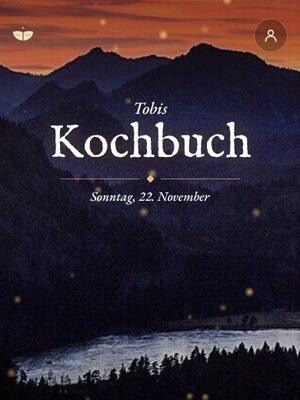
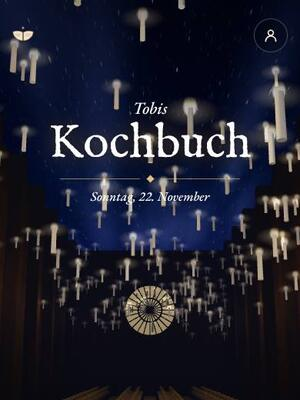
Zauberschule: 3D-Kopf – Halle mit Sternendecke und schwebenden Kerzen statt Stimmungsfoto
Claude-Session: https://claude.ai/code/session_013PTjiN2vxWXEUNgaQEpBeg

diff --git a/assets/skins/zauberschule-3d.js b/assets/skins/zauberschule-3d.js
@@ -1,0 +1,120 @@
+// Zauberschule – 3D-Kopf (Dez. 2026, vierte Fassung): eine hohe Halle bei Nacht, deren Decke der Sternenhimmel ist, darunter
+// schweben Hunderte Kerzen, lange Tafeln mit goldenen Kelchen führen nach hinten, hohe Spitzbogenfenster an den Wänden.
+// Die Kamera gleitet langsam durch die Halle, Scrollen hebt den Blick zur Decke. Alles selbst gebaut (Three.js r170).
+import * as THREE from "../vendor/three/three.module.min.js";
+import { RoomEnvironment } from "../vendor/three/RoomEnvironment.js";
+
+const TAU = Math.PI * 2;
+const rng = (seed)=>{ let s = seed; return ()=>{ s = (s * 9301 + 49297) % 233280; return s / 233280; }; };
+
+function skyTexture(){
+  const W = 2048, H = 1024, c = document.createElement("canvas"); c.width = W; c.height = H;
+  const g = c.getContext("2d"), r = rng(5);
+  const gr = g.createLinearGradient(0, 0, 0, H); gr.addColorStop(0, "#050816"); gr.addColorStop(.6, "#0E1A3A"); gr.addColorStop(1, "#1B2450");
+  g.fillStyle = gr; g.fillRect(0, 0, W, H);
+  // Wolkenschleier
+  for(let i = 0; i < 60; i++){ const x = r() * W, y = r() * H, R = 80 + r() * 220; const q = g.createRadialGradient(x, y, 0, x, y, R); q.addColorStop(0, "rgba(120,130,190,.10)"); q.addColorStop(1, "rgba(120,130,190,0)"); g.fillStyle = q; g.fillRect(x - R, y - R, R * 2, R * 2); }
+  for(let i = 0; i < 2600; i++){ const a = r(); g.fillStyle = `rgba(255,${240 + r() * 15},${210 + r() * 45},${.3 + a * .7})`; const s = a > .985 ? 2.6 : a > .9 ? 1.6 : 1; g.fillRect(r() * W, r() * H, s, s); }
+  const t = new THREE.CanvasTexture(c); t.colorSpace = THREE.SRGBColorSpace; return t;
+}
+function stoneTexture(){
+  const W = 512, H = 512, c = document.createElement("canvas"); c.width = W; c.height = H;
+  const g = c.getContext("2d"), r = rng(9); g.fillStyle = "#3a332c"; g.fillRect(0, 0, W, H);
+  for(let y = 0; y < H; y += 64) for(let x = (y / 64) % 2 ? -64 : 0; x < W; x += 128){ const v = 44 + r() * 22; g.fillStyle = `rgb(${v + 10},${v + 4},${v - 4})`; g.fillRect(x + 3, y + 3, 122, 58); }
+  for(let i = 0; i < 6000; i++){ g.fillStyle = `rgba(0,0,0,${r() * .15})`; g.fillRect(r() * W, r() * H, 2, 2); }
+  const t = new THREE.CanvasTexture(c); t.colorSpace = THREE.SRGBColorSpace; t.wrapS = t.wrapT = THREE.RepeatWrapping; return t;
+}
+function flameTexture(){
+  const c = document.createElement("canvas"); c.width = 64; c.height = 128; const g = c.getContext("2d");
+  let q = g.createRadialGradient(32, 80, 0, 32, 80, 31); q.addColorStop(0, "rgba(255,200,120,.45)"); q.addColorStop(1, "rgba(255,150,60,0)"); g.fillStyle = q; g.fillRect(0, 0, 64, 128);
+  q = g.createRadialGradient(32, 78, 0, 32, 70, 22); q.addColorStop(0, "rgba(255,255,235,1)"); q.addColorStop(.5, "rgba(255,210,120,.9)"); q.addColorStop(1, "rgba(255,140,40,0)");
+  g.fillStyle = q; g.beginPath(); g.moveTo(32, 40); g.quadraticCurveTo(46, 70, 32, 96); g.quadraticCurveTo(18, 70, 32, 40); g.fill();
+  const t = new THREE.CanvasTexture(c); t.colorSpace = THREE.SRGBColorSpace; return t;
+}
+
+export function create(canvas){
+  const renderer = new THREE.WebGLRenderer({ canvas, antialias: true, powerPreference: "high-performance" });
+  renderer.outputColorSpace = THREE.SRGBColorSpace; renderer.toneMapping = THREE.ACESFilmicToneMapping; renderer.toneMappingExposure = 1.1;
+  const scene = new THREE.Scene(); scene.background = new THREE.Color(0x05060d); scene.fog = new THREE.FogExp2(0x0a0c1a, .032);
+  const pmrem = new THREE.PMREMGenerator(renderer); scene.environment = pmrem.fromScene(new RoomEnvironment(), .04).texture; scene.environmentIntensity = .25;
+  const camera = new THREE.PerspectiveCamera(50, 1, .1, 120);
+  scene.add(new THREE.HemisphereLight(0x5a6aa8, 0x2a1a0a, .55));
+
+  const HW = 7, LEN = 46, HT = 13;
+  // Decke = Himmel
+  const sky = new THREE.Mesh(new THREE.PlaneGeometry(HW * 2, LEN), new THREE.MeshBasicMaterial({ map: skyTexture(), fog: false }));
+  sky.rotation.x = Math.PI / 2; sky.position.set(0, HT, -LEN / 2 + 4); scene.add(sky);
+  // Boden, Wände
+  const stone = stoneTexture(); const wallTex = stone.clone(); wallTex.repeat.set(LEN / 4, HT / 4); wallTex.needsUpdate = true;
+  const floorTex = stone.clone(); floorTex.repeat.set(4, LEN / 3); floorTex.needsUpdate = true;
+  const floor = new THREE.Mesh(new THREE.PlaneGeometry(HW * 2, LEN), new THREE.MeshStandardMaterial({ map: floorTex, roughness: .7, metalness: .1, color: 0x8a7a6a }));
+  floor.rotation.x = -Math.PI / 2; floor.position.z = -LEN / 2 + 4; scene.add(floor);
+  const wallMat = new THREE.MeshStandardMaterial({ map: wallTex, roughness: .95, color: 0x9a8f80 });
+  [-1, 1].forEach((sd)=>{ const w = new THREE.Mesh(new THREE.PlaneGeometry(LEN, HT), wallMat); w.rotation.y = -sd * Math.PI / 2; w.position.set(sd * HW, HT / 2, -LEN / 2 + 4); scene.add(w); });
+  const end = new THREE.Mesh(new THREE.PlaneGeometry(HW * 2, HT), wallMat); end.position.set(0, HT / 2, -LEN + 4); scene.add(end);
+  const rose = new THREE.Mesh(new THREE.CircleGeometry(2.2, 48), new THREE.MeshBasicMaterial({ color: 0xffc070, fog: false, transparent: true, opacity: .75 })); rose.position.set(0, 7.5, -LEN + 4.05); scene.add(rose);
+  for(let k = 0; k < 12; k++){ const sp = new THREE.Mesh(new THREE.BoxGeometry(.08, 4.4, .05), new THREE.MeshBasicMaterial({ color: 0x1a120a })); sp.rotation.z = k / 12 * Math.PI; sp.position.set(0, 7.5, -LEN + 4.1); scene.add(sp); }
+  const ring = new THREE.Mesh(new THREE.RingGeometry(1.0, 1.12, 48), new THREE.MeshBasicMaterial({ color: 0x1a120a })); ring.position.set(0, 7.5, -LEN + 4.12); scene.add(ring);
+  // Spitzbogenfenster (leuchten blau), Säulen dazwischen
+  const winShape = new THREE.Shape(); winShape.moveTo(-.8, 0); winShape.lineTo(-.8, 4); winShape.absarc(0, 4, .8, Math.PI, Math.PI / 2, true); winShape.absarc(0, 4, .8, Math.PI / 2, 0, true); winShape.lineTo(.8, 0); winShape.closePath();
+  const winGeo = new THREE.ShapeGeometry(winShape, 12), winMat = new THREE.MeshBasicMaterial({ color: 0x4a64b8, fog: true });
+  const pillarGeo = new THREE.BoxGeometry(.7, HT, .7), pillarMat = new THREE.MeshStandardMaterial({ map: stone, color: 0x7a7064, roughness: .9 });
+  for(let z = 2; z > -LEN + 6; z -= 4.5){
+    [-1, 1].forEach((sd)=>{
+      const w = new THREE.Mesh(winGeo, winMat); w.rotation.y = -sd * Math.PI / 2; w.position.set(sd * (HW - .02), 4.2, z - 2.2); scene.add(w);
+      // Fenstersprossen
+      for(let k = 1; k < 4; k++){ const bar = new THREE.Mesh(new THREE.BoxGeometry(.05, .05, 1.6), new THREE.MeshBasicMaterial({ color: 0x0a0a12 })); bar.position.set(sd * (HW - .04), 4.2 + k * 1.1, z - 2.2); scene.add(bar); }
+      const p = new THREE.Mesh(pillarGeo, pillarMat); p.position.set(sd * (HW - .35), HT / 2, z); scene.add(p);
+    });
+  }
+  // Tafeln mit Bänken und goldenen Kelchen und Tellern
+  const wood = new THREE.MeshStandardMaterial({ color: 0x4a2c18, roughness: .55, metalness: .05 });
+  const gold = new THREE.MeshStandardMaterial({ color: 0xE0B860, metalness: 1, roughness: .25 });
+  const cup = new THREE.LatheGeometry([[0, 0], [.09, 0], [.02, .03], [.02, .14], [.1, .2], [.11, .32], [.1, .33]].map(([x, y])=> new THREE.Vector2(x, y)), 16);
+  const plate = new THREE.CylinderGeometry(.18, .16, .02, 24);
+  const cups = [], plates = [];
+  [-3.4, -1.1, 1.1, 3.4].forEach((x)=>{
+    const t = new THREE.Mesh(new THREE.BoxGeometry(1.2, .12, LEN - 12), wood); t.position.set(x, .8, -LEN / 2 + 6); scene.add(t);
+    [-1, 1].forEach((sd)=>{ const b = new THREE.Mesh(new THREE.BoxGeometry(.4, .08, LEN - 12), wood); b.position.set(x + sd * .9, .45, -LEN / 2 + 6); scene.add(b); });
+    for(let z = -.5; z > -LEN + 12; z -= 1.1) [-1, 1].forEach((sd)=>{ cups.push([x + sd * .32, .86, z]); plates.push([x + sd * .32, .87, z - .45]); });
+  });
+  const mtx = new THREE.Matrix4();
+  const cupI = new THREE.InstancedMesh(cup, gold, cups.length); cups.forEach((p, i)=>{ mtx.makeTranslation(...p); cupI.setMatrixAt(i, mtx); }); scene.add(cupI);
+  const plI = new THREE.InstancedMesh(plate, gold, plates.length); plates.forEach((p, i)=>{ mtx.makeTranslation(...p); plI.setMatrixAt(i, mtx); }); scene.add(plI);
+  // Lichter über den Tafeln
+  for(let z = -2; z > -LEN + 8; z -= 7){ const l = new THREE.PointLight(0xffb060, 22, 16, 1.4); l.position.set(0, 6.5, z); scene.add(l); [-1, 1].forEach((sd)=>{ const w = new THREE.PointLight(0xff9a50, 10, 7, 1.5); w.position.set(sd * (HW - 1.5), 6, z - 3); scene.add(w); }); }
+
+  // Schwebende Kerzen
+  const N = 260, r = rng(13), wax = new THREE.MeshStandardMaterial({ color: 0xF2EAD8, roughness: .6, emissive: 0x402a10, emissiveIntensity: .4 });
+  const candleGeo = new THREE.CylinderGeometry(.045, .05, .5, 10); candleGeo.translate(0, -.25, 0);
+  const candles = new THREE.InstancedMesh(candleGeo, wax, N); scene.add(candles);
+  const fl = new Float32Array(N * 3), C = [];
+  for(let i = 0; i < N; i++){ const c = { x: (r() - .5) * (HW * 2 - 2), y: 5 + r() * 5, z: -1 - r() * (LEN - 6), ph: r() * TAU, s: .7 + r() * .6 }; C.push(c); }
+  const flGeo = new THREE.BufferGeometry(); flGeo.setAttribute("position", new THREE.BufferAttribute(fl, 3));
+  const flames = new THREE.Points(flGeo, new THREE.PointsMaterial({ map: flameTexture(), size: .5, transparent: true, depthWrite: false, blending: THREE.AdditiveBlending, color: 0xffffff }));
+  scene.add(flames);
+  const place = (t, still)=>{
+    C.forEach((c, i)=>{
+      const y = c.y + (still ? 0 : Math.sin(t * .0009 + c.ph) * .12);
+      mtx.makeScale(c.s, c.s, c.s); mtx.setPosition(c.x, y, c.z); candles.setMatrixAt(i, mtx);
+      fl[i * 3] = c.x; fl[i * 3 + 1] = y + .06; fl[i * 3 + 2] = c.z;
+    });
+    candles.instanceMatrix.needsUpdate = true; flGeo.attributes.position.needsUpdate = true;
+  };
+  flames.material.size = .5;
+
+  let W = 1, H = 1, mx = 0, my = 0;
+  return {
+    resize(w, h, dpr){ W = w; H = h; renderer.setPixelRatio(Math.min(dpr, 1.75)); renderer.setSize(w, h, false); camera.aspect = w / h; camera.fov = w < h ? 68 : 50; camera.updateProjectionMatrix(); },
+    render(t, dt, still, s){
+      if(s.near){ mx += (s.px - mx) * .04; my += (s.py - my) * .04; }
+      const z = still ? 1 : 2 - ((t * .0004) % 14), sc = s.scroll;
+      camera.position.set(mx * .5, 2.4 + sc * 1.5, z + 3);
+      camera.lookAt(mx * 1.5, 4.2 + sc * 9 - my * .5, z - 10);
+      place(t, still);
+      flames.material.size = 1.1 + (still ? 0 : Math.sin(t * .01) * .06);
+      renderer.render(scene, camera);
+    },
+    dispose(){ renderer.dispose(); pmrem.dispose(); scene.traverse((o)=>{ o.geometry?.dispose?.(); }); },
+  };
+}

diff --git a/assets/skins/zauberschule.js b/assets/skins/zauberschule.js
@@ -1,12 +1,12 @@
-// Skin „zauberschule“ – Kopf der Startseite: echtes Stimmungsfoto (Schloss im Abendrot über dem See, mit schwebenden Lichtern), gemeinsamer Aufbau in cx-hero.js
-// (Dez. 2026, dritte Fassung: Besitzer – „gezeichnete Teile wirken billig“). Foto-Nachweis in assets/skins/fotos/quellen.txt.
+// Skin „zauberschule“ – Kopf der Startseite (Dez. 2026, vierte Fassung): 3D-Szene zauberschule-3d.js (Halle mit Sternendecke und
+// schwebenden Kerzen) über cx-hero.js; ohne Grafikkarte dunkler Verlauf mit Lichtpunkten.
 (()=>{
   "use strict";
   const load = (api)=> new Promise((ok)=>{ if(window.KOCHBUCH_CX) return ok(); const s = document.createElement("script"); s.src = `/assets/skins/cx-hero.js?v=${api.ver}`; s.onload = ok; document.head.appendChild(s); });
   window.KOCHBUCH_FX.zauberschule = {
     start(api){
       if(!api.home()) return;
-      load(api).then(()=>{ if(document.documentElement.classList.contains("skin-zauberschule")) window.KOCHBUCH_CX(api, { skin: "zauberschule", img: "zauberschule", pos: "50% 60%", down: "Heute in der Gro\u00dfen Halle", credit: "Supratim.gre2014, CC BY-SA 4.0", fx: "motes" }); });
+      load(api).then(()=>{ if(document.documentElement.classList.contains("skin-zauberschule")) window.KOCHBUCH_CX(api, { skin: "zauberschule", scene: "zauberschule", down: "Heute in der Gro\u00dfen Halle", fx: "motes" }); });
     },
   };
 })();

diff --git a/assets/skins/zauberschule.css b/assets/skins/zauberschule.css
@@ -132,3 +132,6 @@ html.skin-zauberschule:not(#_x#_y) .recipeCard .recipeTitle{-webkit-line-clamp:2
 .cxPhoto .cxDown{color:#FFFFFF}
 .cxCredit{position:absolute;left:16px;bottom:calc(env(safe-area-inset-bottom) + 186px);z-index:2;max-width:60%;font:400 .625rem/1.3 -apple-system, "Inter", sans-serif;color:rgba(255,255,255,.6);text-align:left;text-shadow:0 1px 4px rgba(0,0,0,.6)}
 @media (prefers-reduced-motion: reduce){.cxPhoto .cxImg{animation:none}}
+/* Dez. 2026, vierte Fassung: 3D-Kopf (zauberschule-3d.js) – Halle mit Sternendecke und schwebenden Kerzen */
+.cxPhoto .cxPoster{background:radial-gradient(80% 50% at 50% 35%, #1B2450, #05060D 75%)}
+.cxPhoto .cxGL{position:absolute;inset:0;width:100%;height:100%}

diff --git a/sw.js b/sw.js
@@ -1,7 +1,7 @@
 /* Tobis Kochbuch — Service Worker
    Offline: Seiten „netzwerk-zuerst“, aber nach 3 s Warten (schlechter Empfang im Supermarkt) aus dem Cache.
    CSS/JS/Bilder „Cache zuerst“, im Hintergrund aktualisieren. /api/ nie cachen. */
-const VERSION = 'kochbuch-v140';
+const VERSION = 'kochbuch-v141';
 const ASSET_CACHE = `${VERSION}-assets`;
 const IMAGE_CACHE = `${VERSION}-images`;
 const PAGE_CACHE = `${VERSION}-pages`;

diff --git a/CLAUDE.md b/CLAUDE.md
@@ -226,6 +226,8 @@ Nur `/api/*` läuft durch den Worker (`run_worker_first`), alles andere sind sta
     Vertrag `create(canvas)` → `{resize, render(t, dt, still, {scroll, px, py, near}), dispose}`; ohne Grafikkarte dunkler Verlauf
     `.cxPoster` mit den 2D-Teilchen). **Nordwall:** Pergament-Landkarte, darüber eine Messing-Armillarsphäre mit glühendem Kern,
     Türme aus Zahnrädern wachsen aus der Karte und versinken wieder, 3D-Schnee; Scrollen senkt die Kamera.
+    **Zauberschule:** hohe Halle mit Sternenhimmel als Decke, ~260 schwebende Kerzen, vier lange Tafeln mit goldenen Kelchen und
+    Tellern, Spitzbogenfenster, Rosette am Ende; die Kamera gleitet durch die Halle, Scrollen hebt den Blick zur Decke.
   - **Brigade** ist hell (Edelstahl) mit Schürzenblau `#2E62A8`; ein dunkler Brigade-Look wurde abgelehnt.
   - Die 3D-Köpfe (Three.js) sind im Dez. 2026 entfernt worden.
 - **Leise Bewegung im Standard-Look (Nov. 2026, alle sechs vom Besitzer gewählt; Abschnitt 24 in `styles.css`, nur `html:not(.skin):not(.retro)`):**
